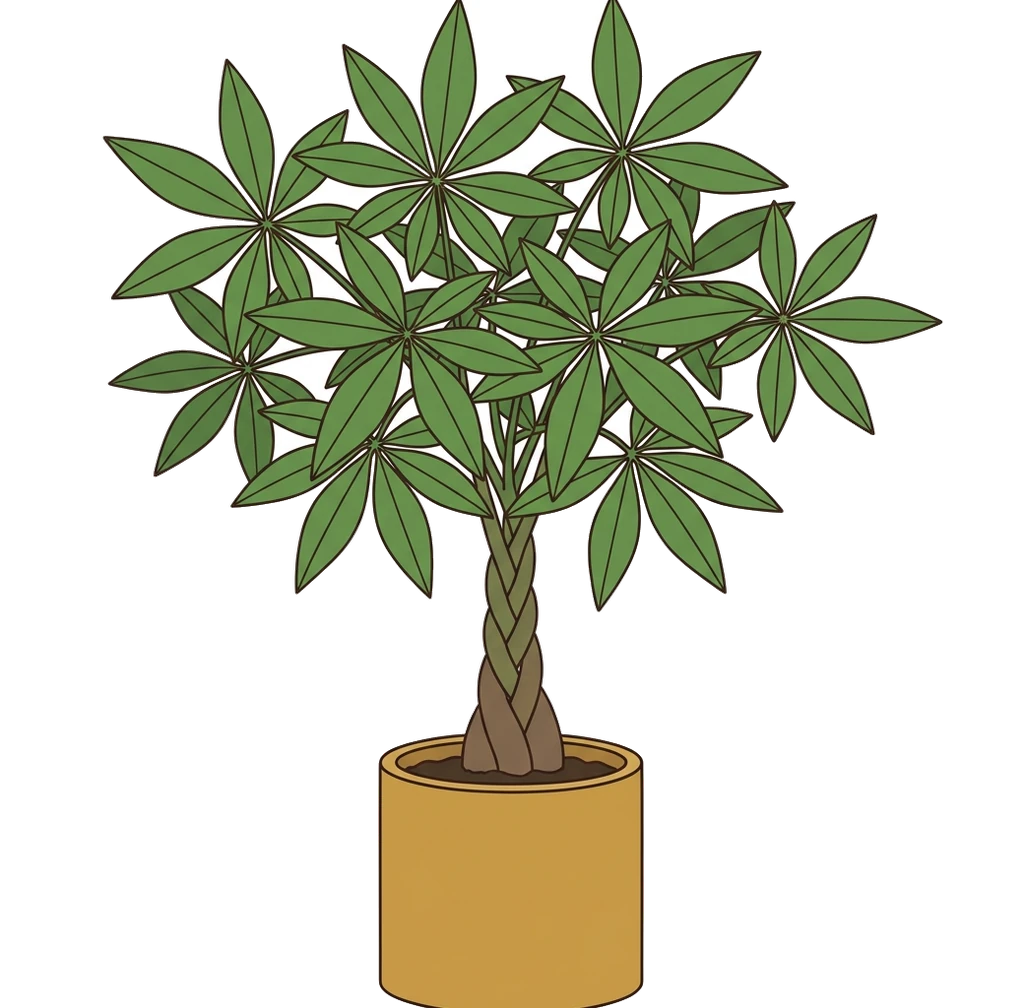
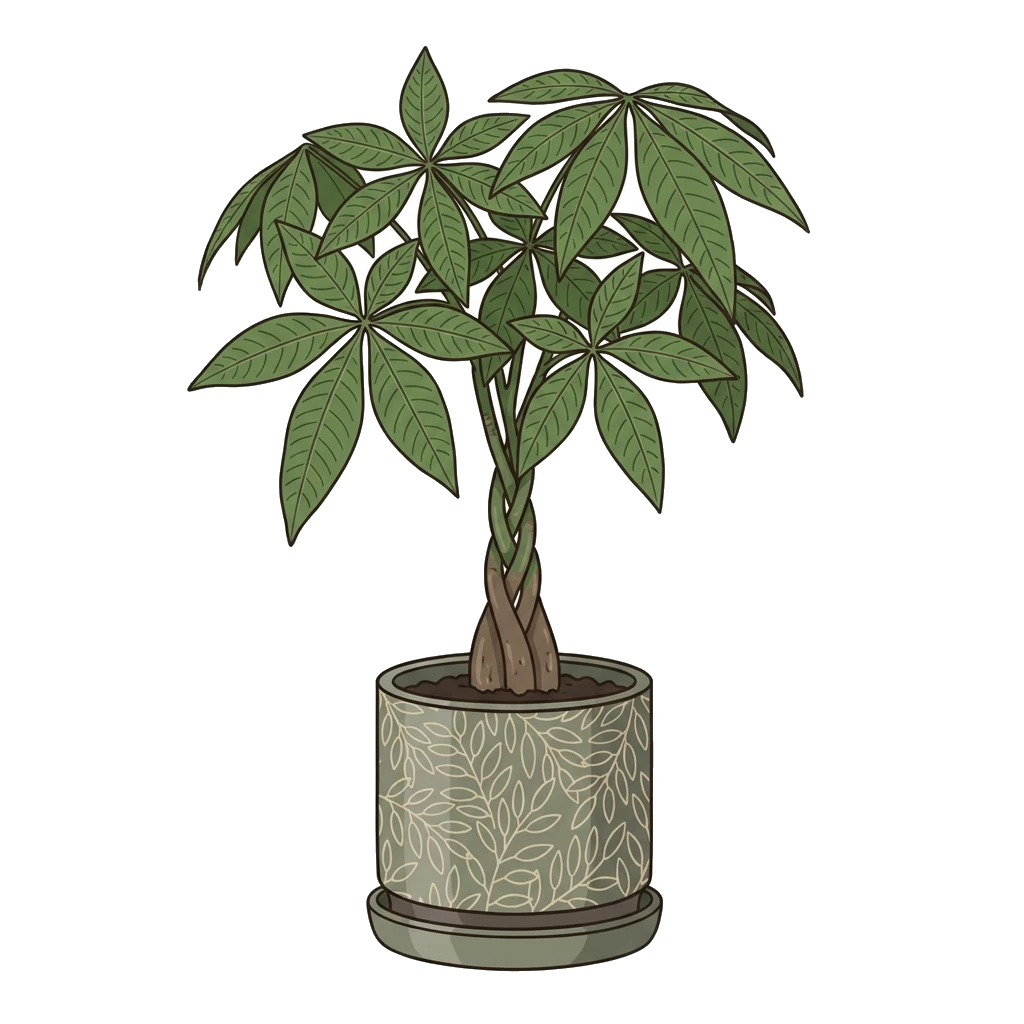
Money tree: green leaf-sgraffito pot, matching art and data
The pot was an invented gold-glazed ceramic. Changed to the real one:
dull sage-green glazed ceramic with cream leaf sgraffito and grey/brown
shading. Updated the illustration, the plant record, and the shopping entry.

diff --git a/src/data/shopping.ts b/src/data/shopping.ts
@@ -81,13 +81,13 @@ export const shoppingItems: ShoppingItem[] = [
     note: "Glossy navy, beige engraved leaves, matching saucer. Keep snug.",
   },
   {
-    id: "ceramic-12-gold",
-    name: '12" gold-glazed ceramic w/ saucer',
+    id: "ceramic-12-green",
+    name: '12" green ceramic, leaf sgraffito + saucer',
     category: "ceramic-terracotta",
     forPlants: ["Money Tree"],
     price: "$20–35",
     quantity: 1,
-    note: "Drainage hole required. Empty saucer after watering.",
+    note: "Dull sage green, cream leaf sgraffito, grey/brown shading, matching saucer. Drainage hole required. Empty saucer after watering.",
   },
   {
     id: "terra-12",

diff --git a/src/data/plants.ts b/src/data/plants.ts
@@ -316,8 +316,8 @@ export const plants: Plant[] = [
       "Braided trunk with glossy hand-shaped leaves, five leaflets each. The luck plant.",
     imageUrl: "/images/plants/money-tree.webp",
     currentPot: '10" nursery',
-    newPot: '12" gold-glazed ceramic w/ saucer',
-    potType: "Glazed ceramic, gold/ochre",
+    newPot: '12" green ceramic, leaf sgraffito, matching saucer',
+    potType: "Dull sage-green glazed ceramic, cream leaf sgraffito, grey/brown shading",
     soil: "FoxFarm Ocean Forest + perlite (70/30)",
     soilMix: "foxfarm-70-30",
     water:
